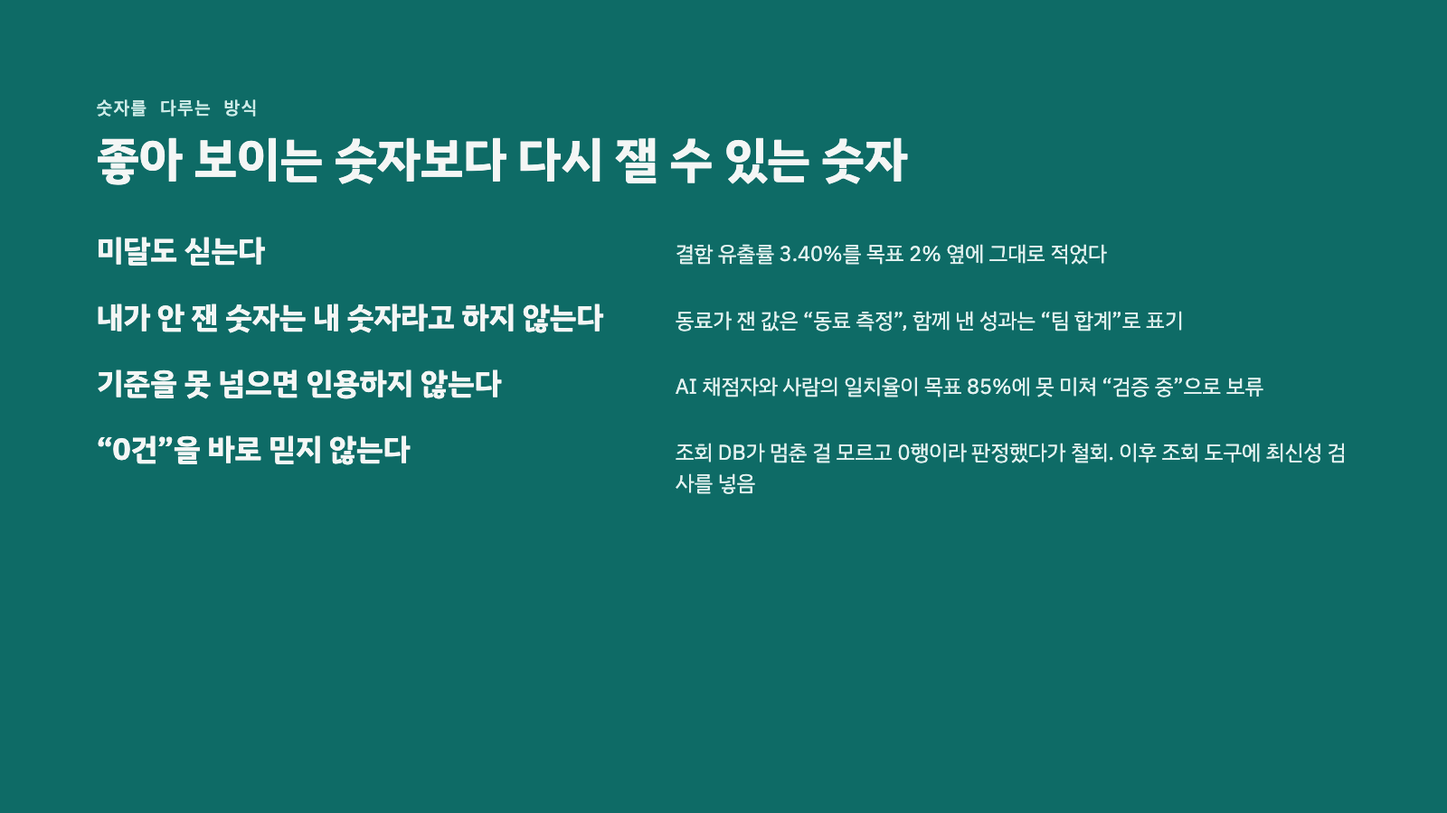
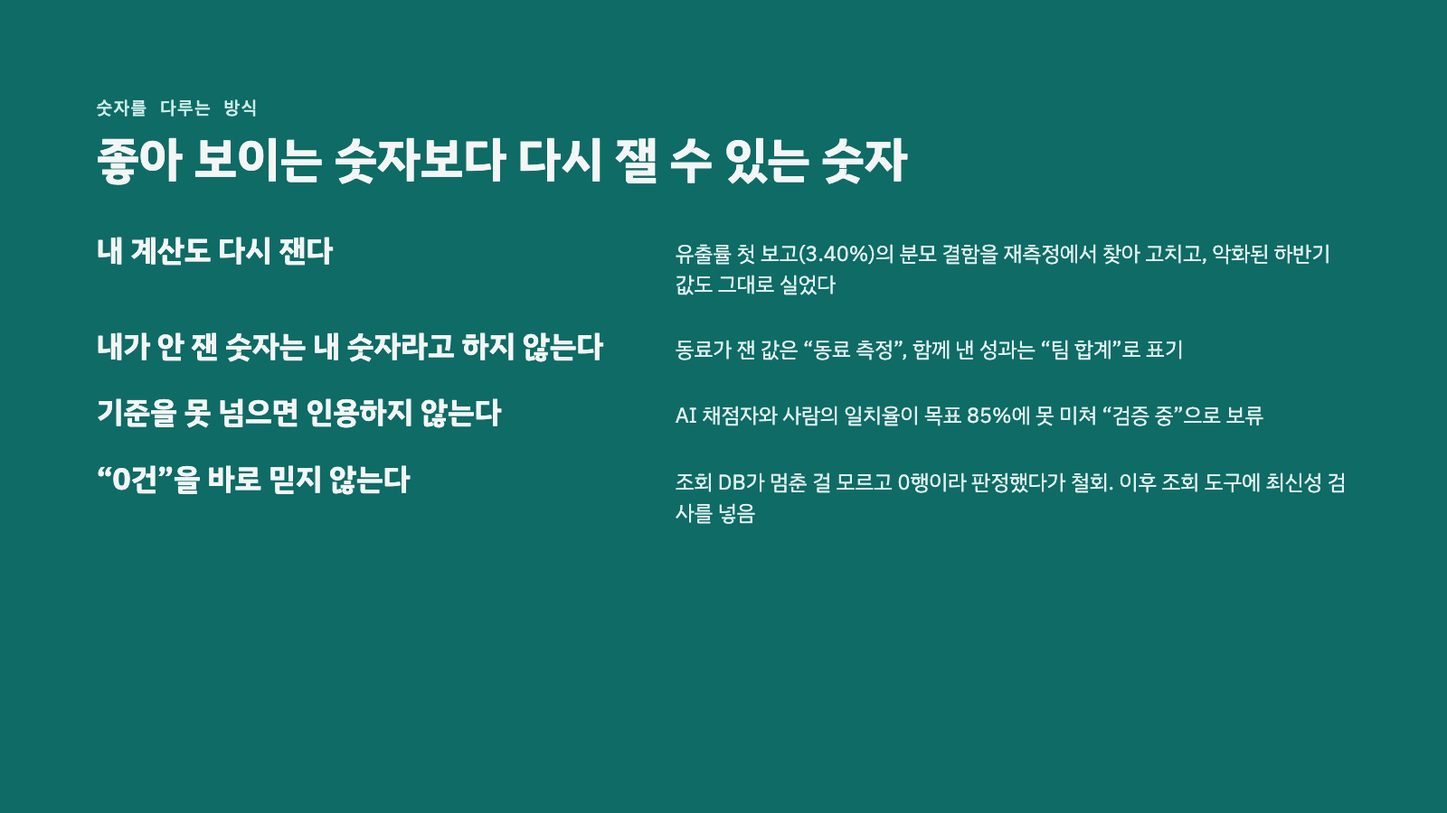
크리티컬 유출률 하반기 재측정, 첫 보고의 분모 결함 정정
- 첫 보고 3.40%(7/206)는 분모를 main 머지 커밋으로 세어 squash 머지를 놓친 값
- 분모를 운영 배포 워크플로 성공 횟수로 바꿔 재계산: 상반기 7/645 = 1.09%, 하반기 9/593 = 1.52%(악화)
- 사례 02를 '다시 재서 내 계산의 결함까지 고쳤다'로 재작성, 하반기 핫픽스 영역별 내역
- README 히어로 4번째 칸을 첫 답변 시간(14→9분)으로, 이력서·경력기술서·성과 흐름·플레이북·발표 자료 갱신
- 숫자 검사기: 기간별 허용값 지원

Changed region(s): [[0.4688, 0.28, 0.9375, 0.6533], [0.0625, 0.3733, 0.4375, 0.6222], [0.0625, 0.28, 0.25, 0.3422]]

diff --git a/5-presentation/portfolio-deck.html b/5-presentation/portfolio-deck.html
@@ -126,10 +126,10 @@ table.tbl th{font-weight:700}
 <div class="card"><p class="big">9.7%</p><h3 class="ctitle">운영 실수로 인한 요청</h3><p class="ctext">2025.12 13.9%에서 −30%. 지원 요청 건수도 전년 대비 −35.6%</p></div>
 <div class="card"><p class="big">328</p><h3 class="ctitle">프로덕션 직접 커밋</h3><p class="ctext">6개 레포, 2026.02~11. 개발 직군이 아닌 상태에서 낸 커밋</p></div>
 <div class="card"><p class="big">290</p><h3 class="ctitle">결제 전수 TC</h3><p class="ctext">과거 결함 101건을 역매핑해 커버리지를 숫자로 증명</p></div>
-<div class="card"><p class="big warn">3.40%</p><h3 class="ctitle">크리티컬 유출률</h3><p class="ctext">운영 배포 206번 중 7번이 크리티컬 결함 긴급 수정. 목표 2% 이하에 미달, 그대로 보고</p></div>
+<div class="card"><p class="big">9분</p><h3 class="ctitle">지원 문의 첫 답변</h3><p class="ctext">중앙값 14분 → 9분(2025.12 → 2026.10~11). 늦은 쪽 25%는 57분 → 26분</p></div>
 </div>
-<p class="source">출처: 개발본부 지원 채널 인입 전수 분류(2025.12 · 2026.05~10), git 이력(11/5 집계), 2026 상반기 QA 챕터 보고서</p>
-<aside>대표 숫자 네 개입니다. 첫 번째는 운영지원의 결과입니다. 운영자의 설정·조작 실수가 원인인 지원 요청 비율이 작년 12월 13.9%에서 올해 5~10월 9.7%로 30% 줄었고, 지원 요청 건수 자체도 1~10월 기준 전년보다 35.6% 줄었습니다. 다른 요인도 있어서 어드민 개선 하나의 효과라고 하지는 않습니다. 커밋 328건은 git 이력에서 직접 셌습니다. 유출률 3.40%는 목표에 못 미친 숫자인데, 이 숫자를 처음 만든 사람이 저라서 미달도 그대로 보고했습니다.</aside>
+<p class="source">출처: 개발본부 지원 채널 인입 전수 분류와 스레드 기록 시각(2025.12 · 2026.05~11), git 이력(11/5 집계)</p>
+<aside>대표 숫자 네 개입니다. 첫 번째는 운영지원의 결과입니다. 운영자의 설정·조작 실수가 원인인 지원 요청 비율이 작년 12월 13.9%에서 올해 5~10월 9.7%로 30% 줄었고, 지원 요청 건수 자체도 1~10월 기준 전년보다 35.6% 줄었습니다. 다른 요인도 있어서 어드민 개선 하나의 효과라고 하지는 않습니다. 커밋 328건은 git 이력에서 직접 셌습니다. 네 번째는 지원 문의에 첫 실질 답변이 나가기까지 걸린 시간으로, 중앙값이 14분에서 9분으로 줄었습니다.</aside>
 </section>
 <section id="backoffice">
 <div class="head">
@@ -161,18 +161,18 @@ table.tbl th{font-weight:700}
 <section id="escape">
 <div class="head">
 <p class="eyebrow">사례 02 · 품질을 숫자로</p>
-<h2 class="title">측정 체계가 없던 곳에 크리티컬 유출률을 세웠다</h2>
+<h2 class="title">지표를 세우고, 다시 재서 내 계산도 고쳤다</h2>
 </div>
 <div class="formula">
-<p class="fx">7</p><p class="fop">÷</p><p class="fx">206</p><p class="fop">=</p><p class="fx res">3.40%</p>
+<p class="fx">1.09%</p><p class="fop">→</p><p class="fx res">1.52%</p>
 </div>
 <div class="cols3">
-<div class="card"><h3 class="ctitle">분자 7</h3><p class="ctext">크리티컬 영역(결제·상세페이지·수강·커뮤니티 홈) 핫픽스. 전체 핫픽스 9건 중 크리티컬만</p></div>
-<div class="card"><h3 class="ctitle">분모 206</h3><p class="ctext">6개 레포의 운영 배포 머지, 2026 상반기. 같은 기간 검증 티켓 1,136건과는 다른 값</p></div>
-<div class="card hl"><h3 class="ctitle">목표 2%에 미달</h3><p class="ctext">미달을 그대로 보고하고, 측정 한계(검증 없이 나가는 배포, 검증 로그 부재, 임시 임계치)도 함께 적었다</p></div>
+<div class="card"><h3 class="ctitle">첫 보고 3.40%</h3><p class="ctext">상반기 크리티컬 핫픽스 7건 ÷ 운영 배포. 분모를 main 브랜치 머지 커밋 206건으로 셌다</p></div>
+<div class="card"><h3 class="ctitle">재측정에서 결함 발견</h3><p class="ctext">하반기 분모가 48건으로 떨어져 18.75%로 튀었다. squash 머지는 머지 커밋이 남지 않았다</p></div>
+<div class="card hl"><h3 class="ctitle">고친 값을 그대로</h3><p class="ctext">분모를 운영 배포 실행 횟수로: 상반기 7/645, 하반기 9/593. 목표 2%는 넘지 않았지만 하반기가 악화</p></div>
 </div>
-<p class="source">출처: 2026 상반기 QA 챕터 안정성 보고서(본인 작성). 보고용 반대 지표: 무사고 배포율 96.60%</p>
-<aside>제가 오기 전에는 운영에서 터진 결함을 세는 기준이 없었습니다. 원래는 QA를 통과한 변경 중 운영 결함 비율을 재고 싶었지만 워크플로에 QA 상태가 없어서, 운영 배포 전체를 분모로 삼은 크리티컬 유출률로 정의했습니다. 회사의 핵심 사용자 경로 문서를 기준으로 크리티컬 영역을 정하고, 그 영역의 핫픽스를 분자, 운영 배포를 분모로 삼았습니다. 결과는 3.40%로 임시 목표 2%에 못 미쳤습니다. 숫자를 좋게 보이도록 기준을 바꾸지 않았고, 대신 무엇을 잴 수 없는지를 같은 보고서에 적어 다음 반기 과제로 넘겼습니다.</aside>
+<p class="source">출처: 6개 레포 운영 배포 워크플로 성공 기록, 핫픽스는 git·지원 채널·티켓을 합쳐 판정(상반기 9건 중 7~8건 재현)</p>
+<aside>제가 오기 전에는 운영에서 터진 결함을 세는 기준이 없었습니다. 크리티컬 영역의 핫픽스를 운영 배포로 나눈 크리티컬 유출률을 만들었고, 상반기에 3.40%로 목표 2%에 못 미친다고 보고했습니다. 하반기에 같은 방식으로 다시 재다가 분모가 48건으로 떨어지는 걸 보고 이상하다는 걸 알았습니다. 분모로 쓴 main 브랜치 머지 커밋이, PR을 squash로 머지하면 남지 않았던 겁니다. 상반기 분모도 실제 배포보다 훨씬 적게 잡혀 있었습니다. 분모를 운영 배포 실행 횟수로 바꿔 두 반기를 다시 계산하니 상반기 1.09%, 하반기 1.52%였습니다. 목표는 넘지 않았지만 하반기가 나빠졌고, 그것도 그대로 보고합니다. 제가 만든 숫자라도 다시 재서 틀리면 고칩니다.</aside>
 </section>
 <section id="rootcause">
 <div class="head">
@@ -302,7 +302,7 @@ table.tbl th{font-weight:700}
 <h2 class="title">좋아 보이는 숫자보다 다시 잴 수 있는 숫자</h2>
 </div>
 <div class="pairs">
-<div class="pair"><h3 class="ptitle">미달도 싣는다</h3><p class="ptext">결함 유출률 3.40%를 목표 2% 옆에 그대로 적었다</p></div>
+<div class="pair"><h3 class="ptitle">내 계산도 다시 잰다</h3><p class="ptext">유출률 첫 보고(3.40%)의 분모 결함을 재측정에서 찾아 고치고, 악화된 하반기 값도 그대로 실었다</p></div>
 <div class="pair"><h3 class="ptitle">내가 안 잰 숫자는 내 숫자라고 하지 않는다</h3><p class="ptext">동료가 잰 값은 “동료 측정”, 함께 낸 성과는 “팀 합계”로 표기</p></div>
 <div class="pair"><h3 class="ptitle">기준을 못 넘으면 인용하지 않는다</h3><p class="ptext">AI 채점자와 사람의 일치율이 목표 85%에 못 미쳐 “검증 중”으로 보류</p></div>
 <div class="pair"><h3 class="ptitle">“0건”을 바로 믿지 않는다</h3><p class="ptext">조회 DB가 멈춘 걸 모르고 0행이라 판정했다가 철회. 이후 조회 도구에 최신성 검사를 넣음</p></div>

diff --git a/tools/check_numbers.py b/tools/check_numbers.py
@@ -14,13 +14,13 @@ ROOT = Path(__file__).resolve().parent.parent
 SCAN = {".md", ".html"}
 SKIP_DIRS = {".git", "node_modules"}
 
-# 정본 값. 바꿀 때는 여기와 경력기술서 표를 같이 고친다.
+# 정본 값. 바꿀 때는 여기와 경력기술서 표를 같이 고친다. "a|b"는 허용값 여러 개(예: 기간별 값).
 CANON = {
     "만족도 시작": "8.23",
     "만족도 최종": "9.33",
-    "결함 유출률": "3.40",
-    "유출률 분자": "7",
-    "유출률 분모": "206",
+    "결함 유출률": "1.09|1.52|3.40|18.75",  # 3.40·18.75는 분모 결함으로 틀린 값(사례 02에서 설명용)
+    "유출률 분자": "7|9",
+    "유출률 분모": "206|645|593",
     "직접 커밋": "328",
     "결제 TC": "290",
     "검증 티켓": "1,136",
@@ -35,7 +35,7 @@ CANON = {
 # (설명, 정규식, 정본 키 목록 — 그룹 순서대로)
 RULES = [
     ("만족도 변화", re.compile(r"만족도[^\n|]{0,40}?(\d\.\d+)\s*\*{0,2}\s*(?:→|->)\s*\*{0,2}(\d\.\d+)"), ["만족도 시작", "만족도 최종"]),
-    ("유출률", re.compile(r"유출률[^\n|]{0,20}?\*{0,2}(\d\.\d\d)%"), ["결함 유출률"]),
+    ("유출률", re.compile(r"유출률[^\n|]{0,20}?\*{0,2}(?<!\d)(\d{1,2}\.\d\d)%"), ["결함 유출률"]),
     ("유출률 식", re.compile(r"핫픽스\s*(\d+)\s*건?\s*÷[^\n]{0,30}?배포\s*(\d+)"), ["유출률 분자", "유출률 분모"]),
     ("유출률 식(문장)", re.compile(r"운영 배포\s*(\d+)번 중\s*(\d+)번"), ["유출률 분모", "유출률 분자"]),
     # 레포별 내역(백오피스 프론트 161 등)은 대표 숫자가 아니라서 '직접·프로덕션 커밋'만 본다
@@ -76,7 +76,7 @@ def main():
                 for m in pat.finditer(line):
                     got = m.groups()
                     want = tuple(CANON[k] for k in keys)
-                    if got != want:
+                    if any(g not in w.split("|") for g, w in zip(got, want)):
                         print(f"DIFF  {rel}:{n} {name} {'/'.join(got)} ≠ 정본 {'/'.join(want)} | {line.strip()[:120]}")
                         bad += 1
     print(f"불일치 {bad}건")

diff --git a/2-career-flow/cases/02-measuring-escape-rate.md b/2-career-flow/cases/02-measuring-escape-rate.md
@@ -1,8 +1,8 @@
-# 측정 체계가 없던 곳에 품질 지표 세우기 — 미달 수치도 그대로
+# 측정 체계가 없던 곳에 품질 지표 세우기 — 다시 재서 내 계산의 결함까지 고쳤다
 
 **역할**: QA 챕터 지표 설계 · 산출
-**기간**: 2026 상반기
-**한 줄**: "QA가 잘 막고 있나"를 판단할 숫자가 없던 곳에 크리티컬 유출률을 QA 챕터 지표로 세워 3개 스쿼드(검증 1,136건 규모)에 적용했고, 목표 미달도 그대로 보고했다.
+**기간**: 2026 상반기(지표 신설) · 2026.11(하반기 재측정)
+**한 줄**: "QA가 잘 막고 있나"를 판단할 숫자가 없던 곳에 크리티컬 유출률을 세워 3개 스쿼드에 적용했다. 하반기에 같은 방식으로 다시 재다가 상반기 계산의 분모가 틀렸다는 걸 찾았고, 분모를 바꿔 두 반기를 다시 계산했다. 고친 값으로 보면 하반기가 더 나빠졌다.
 
 ---
 
@@ -16,21 +16,37 @@
 3. **원천 데이터를 하나로** — 챕터 주간 미팅에서 쓰던 지원 요청 4개 유형 분류(운영 실수 / 버그 / 협업 요청 / 정책 문의)를 구성원 목표의 공통 원천 데이터로 정했다. 사람마다 다른 목표가 같은 데이터를 보게 했다.
 
 ## 결과
-| 지표 | 실측 | 목표 |
-|---|---|---|
-| 크리티컬 유출률 | **3.40%** | 2% (미달) |
-| (보고용 표기) 무사고 배포율 | 96.60% | 98% |
 
-- 식: **크리티컬 영역 핫픽스 7건 ÷ 6개 레포 운영 배포 206건 = 3.40%** (2026 상반기, 3개 스쿼드). 크리티컬 영역은 회사의 핵심 사용자 경로 문서 기준(결제·상세페이지·수강·커뮤니티 홈)이고, 같은 기간 핫픽스 9건 중 일반 영역 2건은 뺐다.
-- 같은 기간 QA 챕터 검증은 1,136건(작업 723 · 버그 279 · 스토리 81 · 에픽 53)이지만 **이것이 유출률의 분모는 아니다**.
+### 1. 상반기 첫 보고 — 3.40%, 목표 미달
+- 크리티컬 영역 핫픽스 7건 ÷ 운영 배포 206건 = 3.40% (목표 2%, 미달로 보고). 같은 기간 핫픽스 9건 중 일반 영역 2건은 뺐다.
+- 분모 206은 6개 레포의 main 브랜치 **머지 커밋 수**로 셌다.
 - 측정 한계도 같은 보고서에 적었다: QA를 거치지 않고 나가는 배포는 추적되지 않고, 검증 수행 로그가 없으며, 2% 임계치는 합의 전 임시값이다.
-- **이 값으로 AI 도입 효과를 주장하지 않는다.** 도입(3~4월)이 기간 중간에 있어 전후가 섞여 있다. 비교하려면 같은 기준으로 도입 전 반기와 도입 후 반기를 따로 내야 한다 — 기준선 없이 도입부터 한 것이 이 일의 가장 큰 아쉬움이다.
 
-## 왜 미달을 그대로 싣는가
-처음 만든 기준선이다. 목표를 못 넘은 값을 빼면 다음 반기에 비교할 출발점이 사라진다.
+### 2. 하반기 재측정 — 분모가 틀렸다는 걸 찾음
+같은 방식으로 하반기를 세자 분모가 48건으로 떨어지고 유출률이 18.75%로 튀었다. 배포가 줄어든 게 아니었다. 대부분 레포가 PR을 squash로 머지하면서 머지 커밋이 남지 않았던 것이다. 상반기에도 같은 문제가 있었다. 한 레포는 main에 머지된 PR이 461건인데 머지 커밋으로는 38건만 잡혔다. **상반기 분모가 실제 배포보다 훨씬 작게 잡혀, 유출률이 부풀려져 있었다.**
+
+분모를 **운영 배포 워크플로가 성공한 횟수**로 바꿔 두 반기를 다시 계산했다.
+
+| 기간 | 크리티컬 핫픽스 | 운영 배포 | 크리티컬 유출률 | 목표 2% |
+|---|---|---|---|---|
+| 2026 상반기 | 7 | 645 | **1.09%** | 달성 |
+| 2026 하반기 (7/1~11/14) | 9 | 593 | **1.52%** | 달성, 상반기보다 **악화** |
+
+- 하반기 크리티컬 9건: 커뮤니티 3건(인기글 롤백, 게시판 탭 롤백, 게시판 구조개선 직후 오류) · 결제 2건(이어서 결제하기 금액 불일치, 포인트 차감 실패 시 결제사 미취소) · 상세페이지·가격 3건(대기열 목록 누락, 프로모션 가격 계산 2건) · 수강 1건(앱에서 강의 자료 다운로드 실패). 프로모션 가격 2건을 일반 영역으로 보면 7건 · 1.18%다.
+- 핫픽스는 브랜치 이름·라벨이 일관되지 않아 git 신호(hotfix 브랜치, revert 커밋), 지원 채널 기록, 티켓을 합쳐 사람 판단으로 골랐다. 상반기 9건 중 7~8건을 이 방법으로 다시 찾아냈다(재현율 확인).
+- 같은 기간 QA 챕터 검증은 1,136건(작업 723 · 버그 279 · 스토리 81 · 에픽 53)이지만 유출률의 분모는 아니다.
+- **이 값으로 AI 도입 효과를 주장하지 않는다.** 도입(3~4월)이 기간 중간에 있어 전후가 섞여 있다.
+
+### 3. 다음 담당자에게 남긴 것
+- 분모는 머지 커밋이 아니라 운영 배포 실행 횟수로 센다.
+- 핫픽스 PR에 라벨이나 브랜치 이름을 강제하면 분자도 자동으로 셀 수 있다. 지금은 사람이 판정해야 해서 누락 가능성이 있다.
+
+## 왜 고친 값과 악화를 그대로 싣는가
+첫 보고 3.40%는 내가 만든 숫자다. 다시 재서 틀린 걸 찾았으면, 좋아 보이든 나빠 보이든 고친 값을 싣는다. 고친 기준으로 보면 상반기는 목표를 넘었고 하반기는 그보다 나빠졌다. 둘 다 사실이다.
 
 ## 재사용할 원칙
 - 지표는 **정의 문장 → 원천 데이터 → 측정 불가 항목 명시** 순서로 만든다.
 - 합이 100%인 두 숫자는 지표 두 개가 아니다. 하나로 관리하고 보고 방향만 고른다.
 - 새 도구를 들이기 **전에** 기준선을 잰다. 도입 후에는 전후 비교를 만들 수 없다.
+- 분모는 **실제 사건을 센 것**(배포 실행 횟수)으로 잡는다. 저장소 이력처럼 운영 방식이 바뀌면 같이 바뀌는 값을 분모로 쓰면, 숫자가 조용히 틀린다.
 - 측정할 수 없는 것을 추정치로 메우지 않는다. 측정할 수 없게 만든 구조를 개선 대상으로 올린다.

diff --git a/README.md b/README.md
@@ -4,16 +4,16 @@
 > 결함을 찾는 데서 끝내지 않고 **원인을 코드에서 찾아 직접 고치고, 운영 지표로 다시 잽니다.**
 > 마지막 해에는 AI 에이전트 위에 규칙·검증·측정 구조를 세워, 원인 진단부터 수정·배포 확인·재발 방지까지 한 흐름으로 돌렸고, AI가 만든 결과(TC 생성·RAG 답변·추천 점수)가 맞는지 재는 일도 맡았습니다.
 
-| 운영 실수로 인한 지원 요청 | 결제 전수 TC | 프로덕션 직접 커밋 | 크리티컬 유출률 | AI 하네스 |
+| 운영 실수로 인한 지원 요청 | 결제 전수 TC | 프로덕션 직접 커밋 | 지원 문의 첫 답변 | AI 하네스 |
 |---|---|---|---|---|
-| **13.9% → 9.7%** (2025.12 한 달 → 2026.05~10 합산) · 지원 요청 건수도 전년 대비 −35.6% | **290건** · 과거 결함 101건 역매핑 | **328건** · 6개 레포 | **3.40%** · 운영 배포 206번 중 7번이 크리티컬 결함 긴급 수정 (목표 2% 이하, 미달) | 독립 검증 에이전트로 변경 13건 검증 · 머지 전 차단 2건 |
+| **13.9% → 9.7%** (2025.12 한 달 → 2026.05~10 합산) · 지원 요청 건수도 전년 대비 −35.6% | **290건** · 과거 결함 101건 역매핑 | **328건** · 6개 레포 | **14분 → 9분** · 첫 실질 답변 중앙값 (2025.12 → 2026.10~11) | 독립 검증 에이전트로 변경 13건 검증 · 머지 전 차단 2건 |
 
 ## 한 번에 보는 흐름 — 발표와 같은 6단
 
 | 단계 | 하는 말 | 근거 문서 |
 |---|---|---|
 | 1 | 누구이고 5년 동안 무엇을 했나 | [이력서](이력서.md) · [경력기술서](2-career-flow/경력기술서.md) |
-| 2 | 운영 도구와 품질을 숫자로 관리했다 | [운영지원 결과](2-career-flow/README.md#운영지원--결과로-본-변화) · [사례 01 백오피스 개선](2-career-flow/cases/01-backoffice-as-product.md) · [사례 02 크리티컬 유출률](2-career-flow/cases/02-measuring-escape-rate.md) |
+| 2 | 운영 도구와 품질을 숫자로 관리했다 | [운영지원 결과](2-career-flow/README.md#운영지원--결과로-본-변화) · [사례 01 백오피스 개선](2-career-flow/cases/01-backoffice-as-product.md) · [사례 02 크리티컬 유출률 — 재측정으로 내 계산 정정](2-career-flow/cases/02-measuring-escape-rate.md) |
 | 3 | 원인을 끝까지 찾는다 — 운영 문의 판정(12), 직접 수정 1건(04), 원인 재현·수정안 인계 3건(03·05·06), 사고를 TC 기준으로(07), 티켓 규칙(09) | [사례 12](2-career-flow/cases/12-ops-inquiry-triage.md) · [03](2-career-flow/cases/03-event-loss-before-navigation.md) · [04](2-career-flow/cases/04-search-zero-results.md) · [05](2-career-flow/cases/05-silent-2000-cap.md) · [07](2-career-flow/cases/07-fallback-masked-as-success.md) · [09](2-career-flow/cases/09-ticket-writing-principle.md) |
 | 4 | AI를 규칙·검증·측정이 있는 업무 시스템으로 돌린다 | [사례 08](2-career-flow/cases/08-ai-agent-qa-workflow.md) · [이식 가이드](1-ai-workflow-guide/README.md) |
 | 5 | AI가 만든 결과가 맞는지 잰다 | [사례 10 RAG 평가](2-career-flow/cases/10-rag-evaluation.md) · [사례 11 온톨로지 검토](2-career-flow/cases/11-ontology-review.md) · [내가 가져가는 것 5절](3-why-me/README.md#5-ai-결과물을-재는-법) |

diff --git a/2-career-flow/README.md b/2-career-flow/README.md
@@ -79,7 +79,7 @@
 
 | 한 일 | 결과 |
 |---|---|
-| 크리티컬 유출률을 **QA 챕터 지표로 정의**하고 3개 스쿼드에 적용 | 유출률 3.40%(목표 2%). **미달도 그대로 보고** [실측] → [사례 02](cases/02-measuring-escape-rate.md) |
+| 크리티컬 유출률을 **QA 챕터 지표로 정의**하고 3개 스쿼드에 적용 | 상반기 1.09% → 하반기 1.52%(악화). 첫 보고 3.40%는 분모를 머지 커밋으로 센 결함이 있어 재측정 때 내가 찾아 정정 [실측] → [사례 02](cases/02-measuring-escape-rate.md) |
 | 결제 영역 전수 TC 290건: 레거시 결제 흐름을 지도화하고 **과거 이슈 101건을 역매핑**해 커버리지 증명 | 동료가 도입한 E2E 기반 위에 36건 자동화, **자동화 실패 2건이 모두 실결함** [실측] |
 | 대형 시즌 프로모션 29종 상품의 4단계 가격 설계 교차 검증 | 종료일 오타·옵션명 오기 등 **이상값 8건을 오픈 전 차단** [실측] |
 | 사내 메시지 발송 도구 QA → 발송 사고 후 TC 설계 기준 재수립 | 유형 매트릭스·미지원 가드·폴백 은폐·폴백 내용 4묶음, 2차 TC 204건 설계, 그중 배포된 범위 43건 수행(통과 29 · 실패 6 · 미수행 8) → [사례 07](cases/07-fallback-masked-as-success.md) |
@@ -161,11 +161,11 @@
 | 09 | [개발자가 첫 화면에서 이해하는 결함 티켓](cases/09-ticket-writing-principle.md) | QA·협업 | 개발자 피드백을 작성 규칙으로 고정 |
 | 10 | [AI 답변을 재 보니 문제는 찾기였다 — RAG 평가](cases/10-rag-evaluation.md) | AI 평가·QA | 실험·발표 완료, 병목=찾기 실측(22~25 vs 36/40). 채점자 일치율만 "검증 중" |
 
-### 기준선을 세웠고, 개선 측정은 진행 중인 사례
+### 기준선을 세우고 다시 쟀지만, 개선은 아직인 사례
 
 | # | 사례 | 영역 | 지금까지 |
 |---|---|---|---|
-| 02 | [측정 체계가 없던 곳에 품질 지표 세우기](cases/02-measuring-escape-rate.md) | QA·데이터 | 크리티컬 유출률 기준선 3.40% (목표 2% 미달 공개) |
+| 02 | [측정 체계가 없던 곳에 품질 지표 세우기](cases/02-measuring-escape-rate.md) | QA·데이터 | 상반기 1.09% → 하반기 1.52%(악화), 첫 계산 3.40%의 분모 결함 정정 |
 | 08 | [AI 코딩 에이전트로 QA 업무 재설계](cases/08-ai-agent-qa-workflow.md) | AI 하네스 | 로그 실측 → 7건 개선, 1주 중간 측정(본 측정 12월) |
 
 ### 진단·결정 요청까지가 내 몫이었던 사례 — 진단 역량

diff --git a/이력서.md b/이력서.md
@@ -15,7 +15,7 @@
 
 ## 핵심 역량
 
-- **품질을 숫자로 관리** — 측정 체계가 없던 곳에 크리티컬 유출률 지표를 세우고, 목표 미달(3.40%, 목표 2%)까지 그대로 보고
+- **품질을 숫자로 관리** — 측정 체계가 없던 곳에 크리티컬 유출률을 세우고, 하반기 재측정에서 내 첫 계산의 분모 결함을 찾아 고침(운영 배포 기준 상반기 1.09% → 하반기 1.52%, 악화도 그대로 보고)
 - **운영 문의를 닫는 운영지원** — 운영 실수가 원인인 지원 요청 비율 **13.9% → 9.7%**(−30%), 지원 요청 건수 전년 대비 **−35.6%**, 첫 실질 답변 중앙값 14분 → 9분. 실수가 나던 자리에 어드민 가드를 넣고, 정책·사용법 안내·새 기능 시연·운영 문제 대응을 운영 부서에 직접 공유(345건+). 문의마다 원인을 "시스템 결함 / 운영 실수"로 판정하는 절차를 도구로 고정
 - **운영 도구를 프로덕트로** — 백오피스 KR 오너로 월간 의견 조사·개선 사이클을 운영해 개선 PR 머지 **25 → 49건**, 만족도 8.23 → 9.33(보조 지표, 최종 회차 15명 응답)
 - **원인 진단과 직접 수정** — 프로덕션 레포 6곳에 **직접 커밋 328건**(2026.02~11). 진단·검증·배포 확인은 직접, 코드 작성은 AI 에이전트와 함께
@@ -33,7 +33,7 @@
 
 - QA → 릴리스·일정 관리 → QA 리드(채용 평가·온보딩) → 기획 → 백오피스 KR 오너로 역할 확장
 - 백오피스 개선: 만족도 **8.23 → 9.33**(월간 6회), 개선 PR 머지 **+96%**(반기 대비, 팀 합계)
-- 품질 지표 신설: 크리티컬 유출률 3.40%(운영 배포 206번 중 7번이 크리티컬 결함 긴급 수정, 목표 2% 이하 미달), 사내 지원 요청 4개 유형 분류를 공통 원천 데이터로 정착
+- 품질 지표 신설: 크리티컬 유출률(크리티컬 핫픽스 ÷ 운영 배포: 상반기 7/645 = 1.09%, 하반기 9/593 = 1.52%), 사내 지원 요청 4개 유형 분류를 공통 원천 데이터로 정착
 - 직접 커밋 레포별: 백오피스 프론트 161 · 사용자 프론트 110 · 백엔드 45 · 백오피스 API 10 · 기타 2개 레포 2
 - PRD 12건+·정책서 6건+ (알림 발송 내재화, 쿠폰 자동 적용, 수강률 산정 기준, 환불 정책 등)
 - 데이터 기반 결정: 프로모션 결제 기여 실측(홈 배너 14.7% vs 플로팅 창 2.16%)으로 다음 시즌 배치 변경, 판매 상품 29종 가격 설계 교차 검증으로 이상값 8건 오픈 전 차단

diff --git a/4-qa-playbook/05-quality-metrics.md b/4-qa-playbook/05-quality-metrics.md
@@ -2,7 +2,7 @@
 
 > 지표는 **정의 문장 → 원천 데이터 → 측정 불가 항목 명시** 순서로 만든다. 측정할 수 없는 것을 추정치로 메우지 않는다.
 
-결함 유출률은 QA를 통과하고도 운영에서 결함이 발견된 비율이다. 경영 보고에서는 같은 값을 반대로 본 "무사고 배포율"(100% − 유출률)로 쓰기도 하지만, **합이 100%인 두 숫자는 지표 하나**다. 하나로 관리하고 보고 방향만 고른다. (실측 3.40%, 목표 2% — 미달까지 그대로 보고)
+결함 유출률은 QA를 통과하고도 운영에서 결함이 발견된 비율이다. 경영 보고에서는 같은 값을 반대로 본 "무사고 배포율"(100% − 유출률)로 쓰기도 하지만, **합이 100%인 두 숫자는 지표 하나**다. 하나로 관리하고 보고 방향만 고른다. (전 직장 실측: 상반기 1.09% → 하반기 1.52%, 목표 2%)
 
 ## 원천 데이터를 하나로
 
@@ -21,11 +21,11 @@
 | 원천 | 이슈 트래커(결함 라벨·연결 관계) · 배포 기록. 조회 쿼리는 정의서에 링크 |
 | 주기 · 기준 시각 | 월 1회, 말일 24시 기준(시간대 명시) |
 | 보고 표기 | 무사고 배포율 = 100% − 유출률 (별도 지표로 세지 않음) |
-| 목표 · 현재 | 2% · 3.40% |
+| 목표 · 현재 | 2% · 1.52% (전 직장 2026 하반기) |
 | 측정 불가 | 리드타임 — 워크플로에 "QA 중" 상태가 없어 측정 불가 → 상태 추가를 개선 과제로 |
 | 쓰면 안 되는 곳 | 기간 중간에 프로세스·도구가 바뀌었으면 전후 효과 주장에 쓰지 않는다 |
 
-> 위 분자·분모는 다음 팀에서 쓸 **권장 정의**다. 전 직장 실측 3.40%는 크리티컬 영역 핫픽스 7건 ÷ 6개 레포 운영 배포 206건(2026 상반기)이었다. 분모가 QA 통과 변경이 아니라 전체 운영 배포라서, 위 권장 정의와 다르다.
+> 위 분자·분모는 다음 팀에서 쓸 **권장 정의**다. 전 직장에서는 크리티컬 영역 핫픽스 ÷ 운영 배포로 쟀다(상반기 7/645, 하반기 9/593). 처음에는 분모를 main 브랜치 머지 커밋으로 셌는데, squash 머지는 머지 커밋이 남지 않아 분모가 3분의 1 아래로 잡혔다(첫 보고 3.40%). **분모는 저장소 이력이 아니라 배포 실행 기록처럼 실제 사건을 센 값으로 잡는다.**
 
 ## 쓰지 않을 때
 - 표본이 작을 때(월 배포 수십 건 이하) — 결함 1건이 퍼센트를 크게 흔든다. 건수와 함께 보고한다.

diff --git a/5-presentation/README.md b/5-presentation/README.md
@@ -31,7 +31,7 @@
 
 ![4. 백오피스 만족도](img/slide-04.png)
 
-![5. 크리티컬 유출률](img/slide-05.png)
+![5. 크리티컬 유출률 — 재측정과 정정](img/slide-05.png)
 
 ## 3. 원인을 찾아 고치고 운영 문의를 닫는다
 
